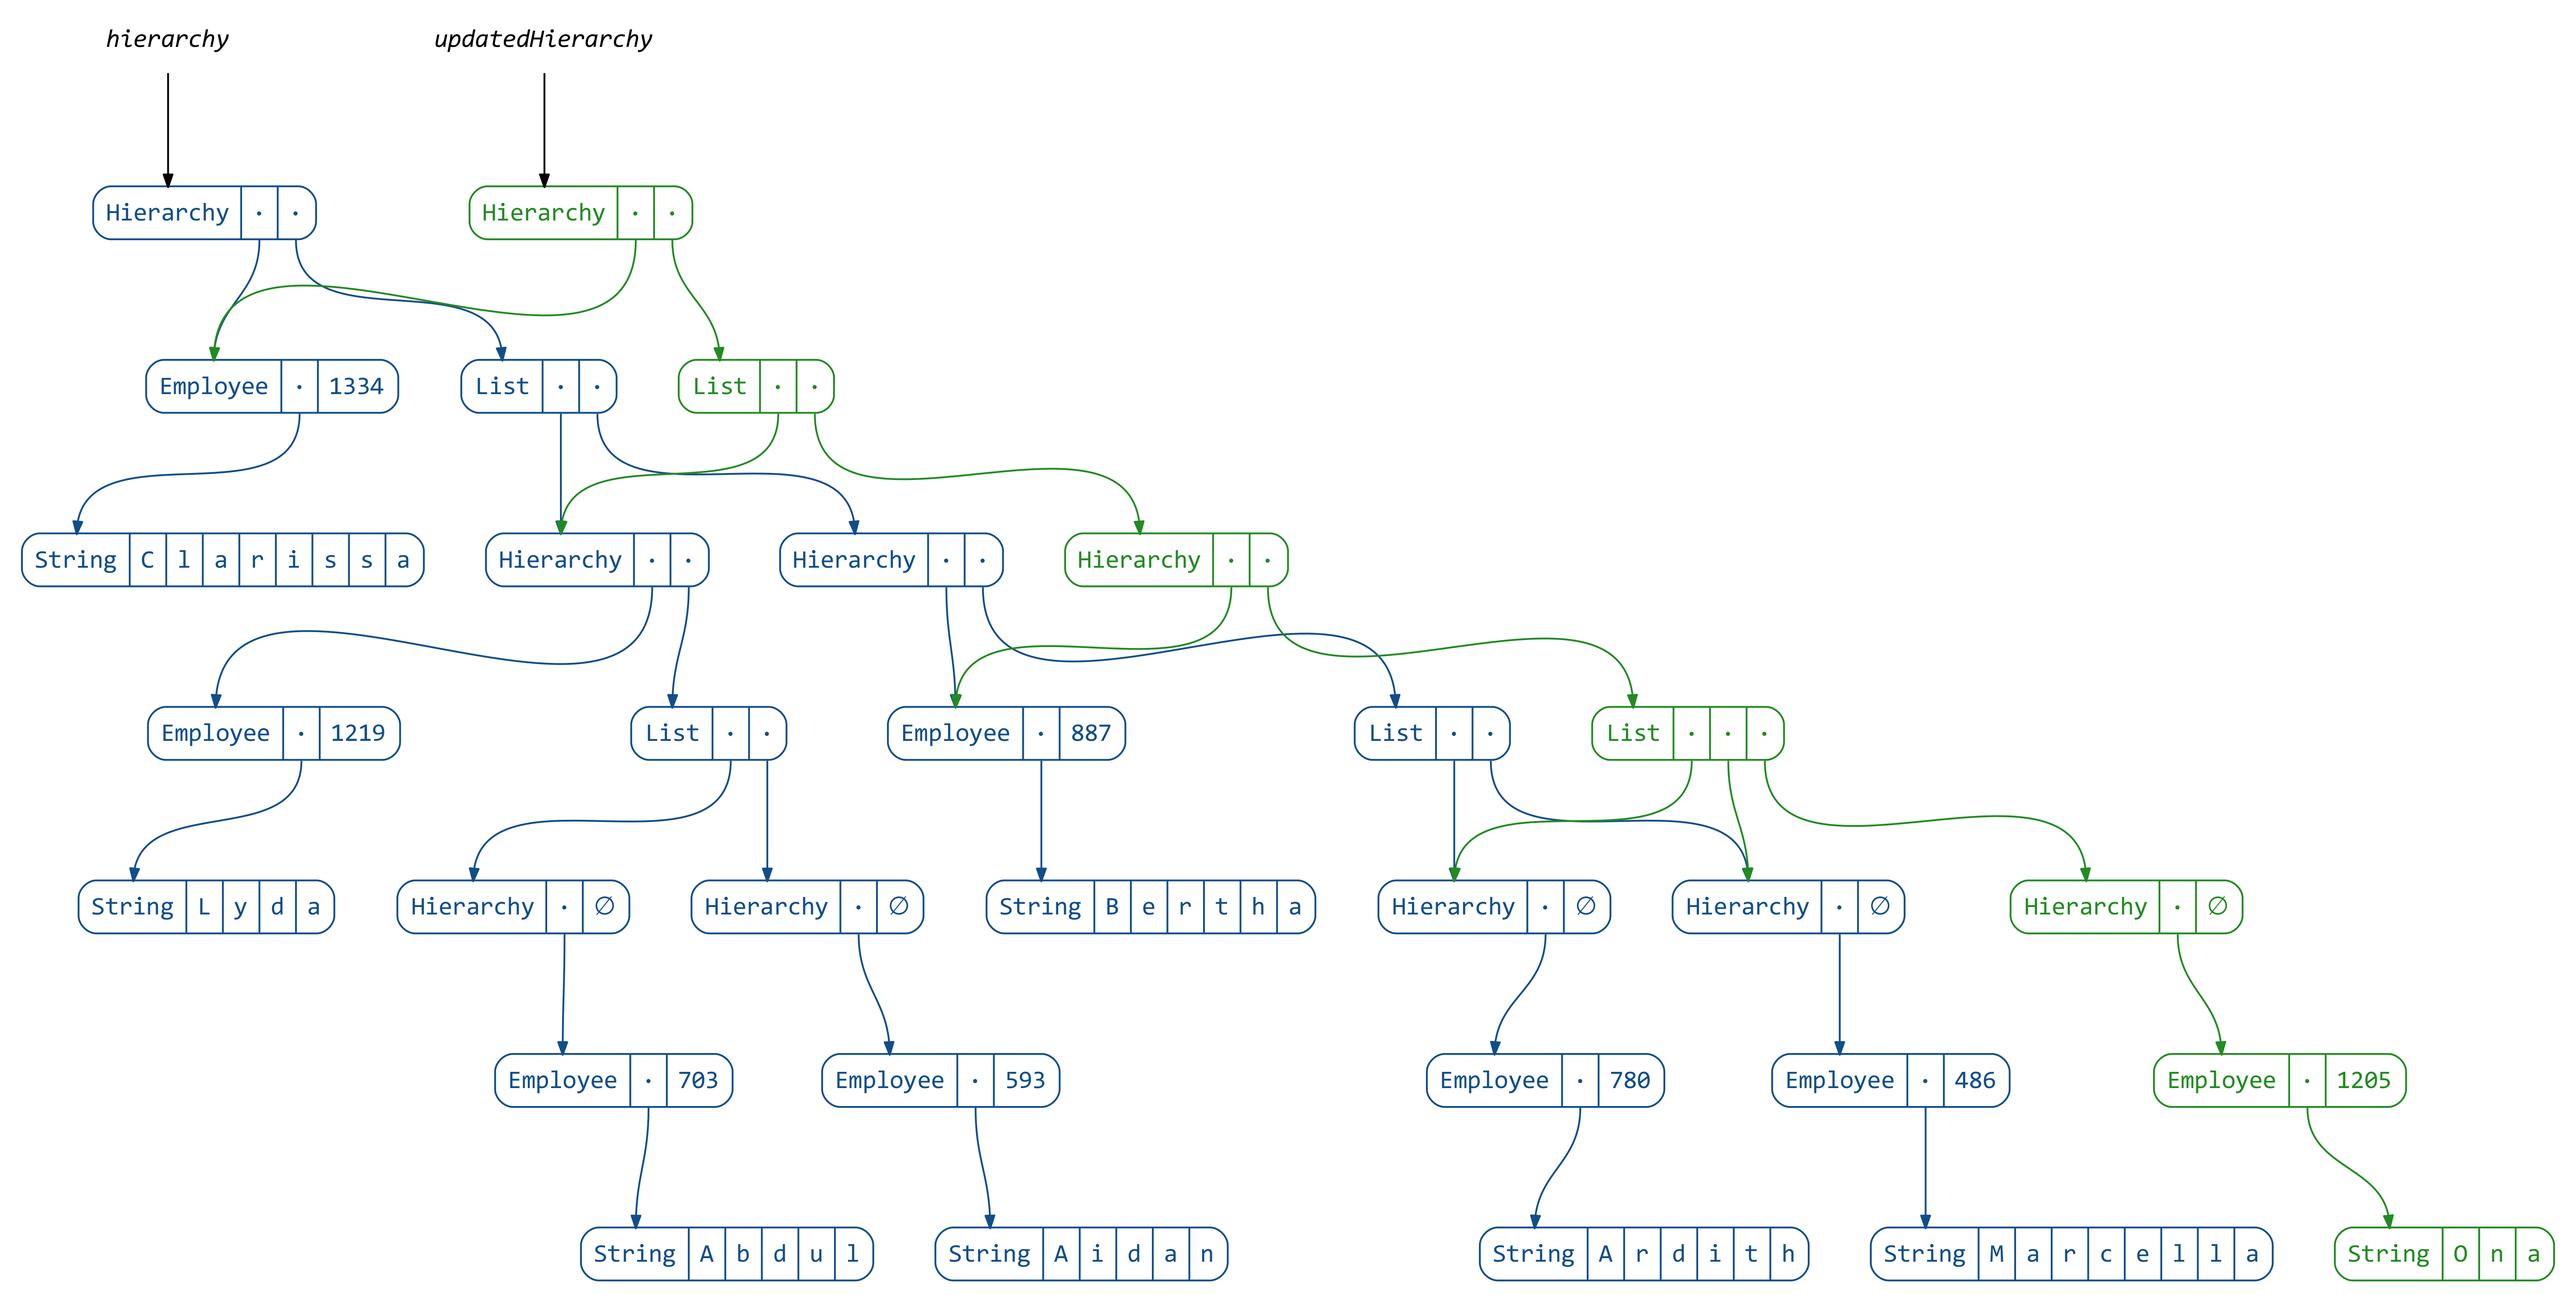
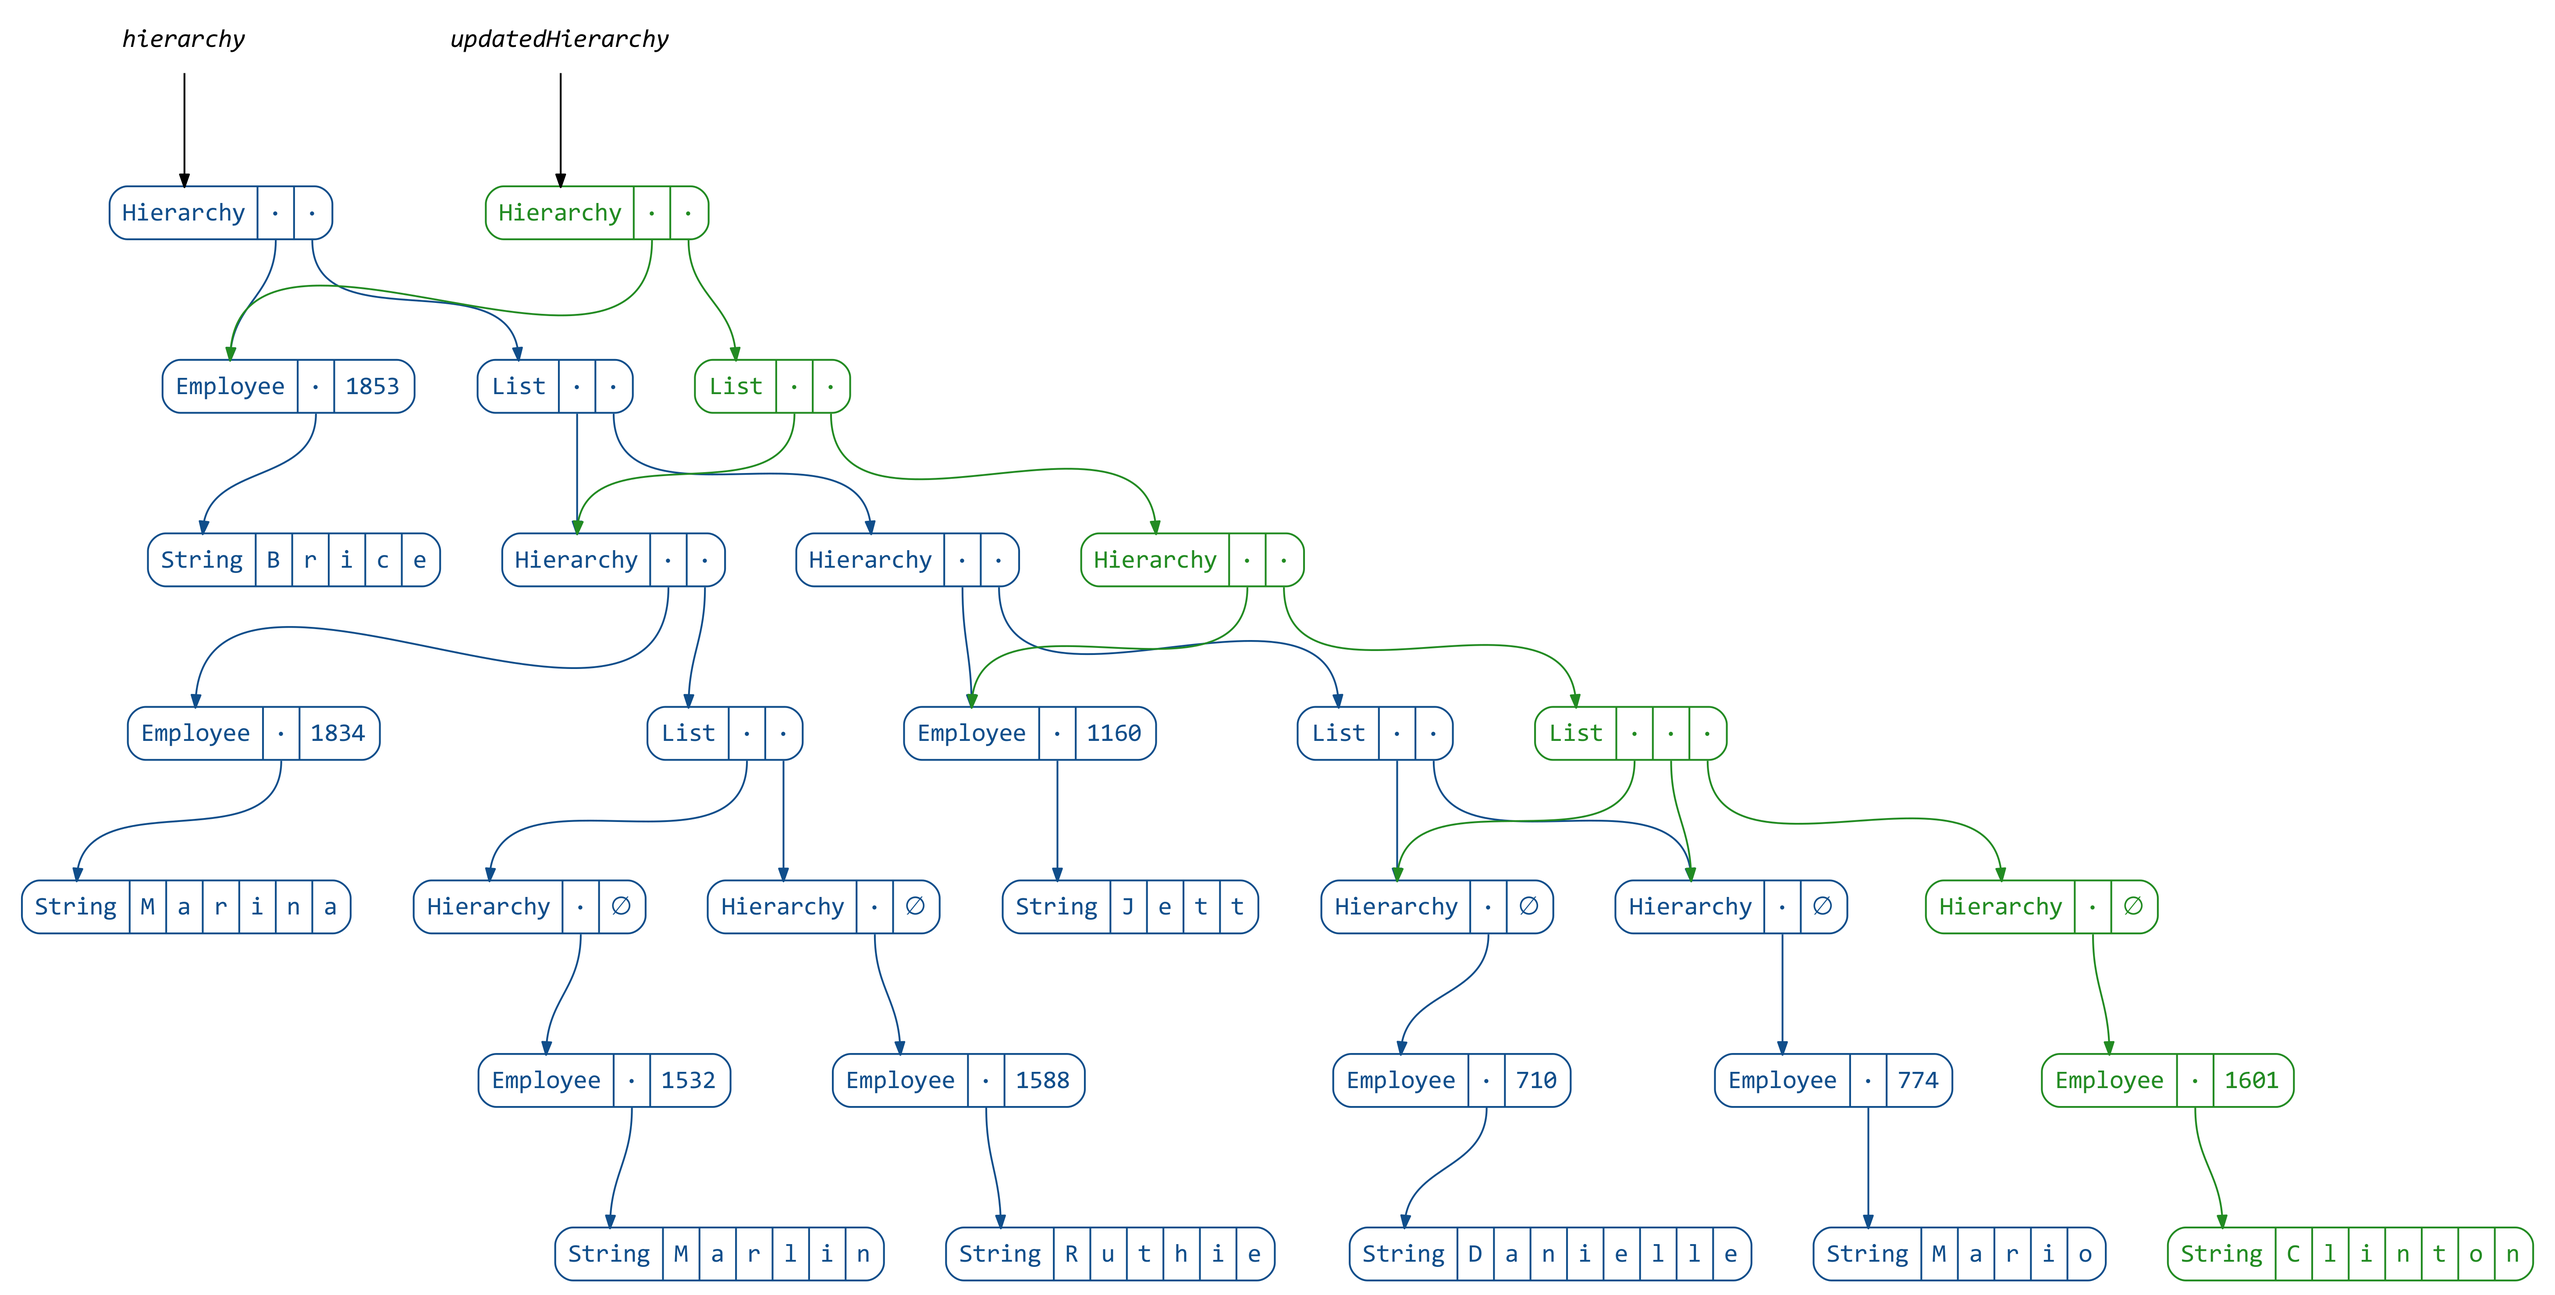
Specify targets explicitly when visualizing lens to avoid confusion

diff --git a/README.md b/README.md
@@ -59,10 +59,10 @@ case class Employee(
 
 ```scala
 scala> val employee = employees.sample.get
-employee: unzimm.Data.Employee = Employee(Janice,1180)
+employee: unzimm.Data.Employee = Employee(Rocky,1957)
 
 scala> val raisedEmployee = employee.copy(salary = employee.salary + 10)
-raisedEmployee: unzimm.Data.Employee = Employee(Janice,1190)
+raisedEmployee: unzimm.Data.Employee = Employee(Rocky,1967)
 ```
 
 However once composition comes into play, the resulting nested immutable data structures
@@ -83,14 +83,14 @@ case class Startup(
 
 ```scala
 scala> val startup = startups.sample.get
-startup: unzimm.Data.Startup = Startup(Abbott Group,Employee(Sheila,3851),List(Employee(Guadalupe,1452), Employee(Nelson,1661), Employee(Marianna,1711), Employee(Rogelio,1554)))
+startup: unzimm.Data.Startup = Startup(Hoppe-Prohaska,Employee(Brooke,4381),List(Employee(Teagan,1234), Employee(Ursula,1696), Employee(Dorothy,1671), Employee(Marc,1331)))
 
 scala> val raisedCeo = startup.copy(
      |   ceo = startup.ceo.copy(
      |     salary = startup.ceo.salary + 10
      |   )
      | )
-raisedCeo: unzimm.Data.Startup = Startup(Abbott Group,Employee(Sheila,3861),List(Employee(Guadalupe,1452), Employee(Nelson,1661), Employee(Marianna,1711), Employee(Rogelio,1554)))
+raisedCeo: unzimm.Data.Startup = Startup(Hoppe-Prohaska,Employee(Brooke,4391),List(Employee(Teagan,1234), Employee(Ursula,1696), Employee(Dorothy,1671), Employee(Marc,1331)))
 ```
 
 ```scala
@@ -120,17 +120,17 @@ import monocle.macros.GenLens
 
 scala> val salaryLens = GenLens[Employee](_.salary)
 warning: there was one feature warning; re-run with -feature for details
-salaryLens: monocle.Lens[unzimm.Data.Employee,Long] = $anon$1@1ecd59ae
+salaryLens: monocle.Lens[unzimm.Data.Employee,Long] = $anon$1@21e8d579
 
 scala> salaryLens.get(startup.ceo)
-res2: Long = 3851
+res2: Long = 4381
 
 scala> salaryLens.modify(s => s + 10)(startup.ceo)
-res3: unzimm.Data.Employee = Employee(Sheila,3861)
+res3: unzimm.Data.Employee = Employee(Brooke,4391)
 ```
 
 ```scala
-Diagram(path.resolve("salaryLens.png")).show(salaryLens)
+Diagram(path.resolve("salaryLens.png")).show(salaryLens → startup.ceo)
 ```
 
 <p align="center"><img src="images/lens/salaryLens.png" width="40%" /></p>
@@ -140,14 +140,14 @@ We can also define a lens that focuses on the startup’s CEO:
 ```scala
 scala> val ceoLens = GenLens[Startup](_.ceo)
 warning: there was one feature warning; re-run with -feature for details
-ceoLens: monocle.Lens[unzimm.Data.Startup,unzimm.Data.Employee] = $anon$1@269bd723
+ceoLens: monocle.Lens[unzimm.Data.Startup,unzimm.Data.Employee] = $anon$1@2790256
 
 scala> ceoLens.get(startup)
-res5: unzimm.Data.Employee = Employee(Sheila,3851)
+res5: unzimm.Data.Employee = Employee(Brooke,4381)
 ```
 
 ```scala
-Diagram(path.resolve("ceoLens.png")).show(ceoLens)
+Diagram(path.resolve("ceoLens.png")).show(ceoLens → startup)
 ```
 
 <p align="center"><img src="images/lens/ceoLens.png" width="100%" /></p>
@@ -156,17 +156,17 @@ It’s not apparent yet how this would help, but the trick is that lenses can be
 
 ```scala
 scala> val ceoSalaryLens = ceoLens composeLens salaryLens
-ceoSalaryLens: monocle.PLens[unzimm.Data.Startup,unzimm.Data.Startup,Long,Long] = monocle.PLens$$anon$1@1966b992
+ceoSalaryLens: monocle.PLens[unzimm.Data.Startup,unzimm.Data.Startup,Long,Long] = monocle.PLens$$anon$1@8c708f1
 
 scala> ceoSalaryLens.get(startup)
-res7: Long = 3851
+res7: Long = 4381
 
 scala> ceoSalaryLens.modify(s => s + 10)(startup)
-res8: unzimm.Data.Startup = Startup(Abbott Group,Employee(Sheila,3861),List(Employee(Guadalupe,1452), Employee(Nelson,1661), Employee(Marianna,1711), Employee(Rogelio,1554)))
+res8: unzimm.Data.Startup = Startup(Hoppe-Prohaska,Employee(Brooke,4391),List(Employee(Teagan,1234), Employee(Ursula,1696), Employee(Dorothy,1671), Employee(Marc,1331)))
 ```
 
 ```scala
-Diagram(path.resolve("ceoSalaryLens.png")).show(ceoSalaryLens)
+Diagram(path.resolve("ceoSalaryLens.png")).show(ceoSalaryLens → startup)
 ```
 
 <p align="center"><img src="images/lens/ceoSalaryLens.png" width="100%" /></p>
@@ -185,17 +185,17 @@ We can use it to give our CEO a funny name:
 ```scala
 scala> val employeeNameLens = GenLens[Employee](_.name)
 warning: there was one feature warning; re-run with -feature for details
-employeeNameLens: monocle.Lens[unzimm.Data.Employee,String] = $anon$1@3fa8719
+employeeNameLens: monocle.Lens[unzimm.Data.Employee,String] = $anon$1@7c0c3aea
 
 scala> val ceoVowelLens = ceoLens composeLens employeeNameLens composeLens vowelLens
-ceoVowelLens: monocle.PLens[unzimm.Data.Startup,unzimm.Data.Startup,Char,Char] = monocle.PLens$$anon$1@6c1cbd62
+ceoVowelLens: monocle.PLens[unzimm.Data.Startup,unzimm.Data.Startup,Char,Char] = monocle.PLens$$anon$1@2a781ab9
 
 scala> ceoVowelLens.modify(v => v.toUpper)(startup)
-res11: unzimm.Data.Startup = Startup(Abbott Group,Employee(ShEIlA,3851),List(Employee(Guadalupe,1452), Employee(Nelson,1661), Employee(Marianna,1711), Employee(Rogelio,1554)))
+res11: unzimm.Data.Startup = Startup(Hoppe-Prohaska,Employee(BrOOkE,4381),List(Employee(Teagan,1234), Employee(Ursula,1696), Employee(Dorothy,1671), Employee(Marc,1331)))
 ```
 
 ```scala
-Diagram(path.resolve("ceoVowelLens.png")).show(ceoVowelLens)
+Diagram(path.resolve("ceoVowelLens.png")).show(ceoVowelLens → startup)
 ```
 
 <p align="center"><img src="images/lens/ceoVowelLens.png" width="100%" /></p>
@@ -211,7 +211,7 @@ scala> import com.softwaremill.quicklens._
 import com.softwaremill.quicklens._
 
 scala> val raisedCeo = startup.modify(_.ceo.salary).using(s => s + 10)
-raisedCeo: unzimm.Data.Startup = Startup(Abbott Group,Employee(Sheila,3861),List(Employee(Guadalupe,1452), Employee(Nelson,1661), Employee(Marianna,1711), Employee(Rogelio,1554)))
+raisedCeo: unzimm.Data.Startup = Startup(Hoppe-Prohaska,Employee(Brooke,4391),List(Employee(Teagan,1234), Employee(Ursula,1696), Employee(Dorothy,1671), Employee(Marc,1331)))
 ```
 
 You might think this is approaching the syntax for updating mutable data,
@@ -220,7 +220,7 @@ but actually we have already surpassed it, since lens are much more flexible:
 
 ```scala
 scala> val raisedEveryone = startup.modifyAll(_.ceo.salary, _.team.each.salary).using(s => s + 10)
-raisedEveryone: unzimm.Data.Startup = Startup(Abbott Group,Employee(Sheila,3861),List(Employee(Guadalupe,1462), Employee(Nelson,1671), Employee(Marianna,1721), Employee(Rogelio,1564)))
+raisedEveryone: unzimm.Data.Startup = Startup(Hoppe-Prohaska,Employee(Brooke,4391),List(Employee(Teagan,1244), Employee(Ursula,1706), Employee(Dorothy,1681), Employee(Marc,1341)))
 ```
 
 

diff --git a/src/main/tut/README.md b/src/main/tut/README.md
@@ -118,7 +118,7 @@ salaryLens.modify(s => s + 10)(startup.ceo)
 ```
 
 ```tut:silent
-Diagram(path.resolve("salaryLens.png")).show(salaryLens)
+Diagram(path.resolve("salaryLens.png")).show(salaryLens → startup.ceo)
 ```
 
 <p align="center"><img src="images/lens/salaryLens.png" width="40%" /></p>
@@ -132,7 +132,7 @@ ceoLens.get(startup)
 ```
 
 ```tut:silent
-Diagram(path.resolve("ceoLens.png")).show(ceoLens)
+Diagram(path.resolve("ceoLens.png")).show(ceoLens → startup)
 ```
 
 <p align="center"><img src="images/lens/ceoLens.png" width="100%" /></p>
@@ -147,7 +147,7 @@ ceoSalaryLens.modify(s => s + 10)(startup)
 ```
 
 ```tut:silent
-Diagram(path.resolve("ceoSalaryLens.png")).show(ceoSalaryLens)
+Diagram(path.resolve("ceoSalaryLens.png")).show(ceoSalaryLens → startup)
 ```
 
 <p align="center"><img src="images/lens/ceoSalaryLens.png" width="100%" /></p>
@@ -171,7 +171,7 @@ ceoVowelLens.modify(v => v.toUpper)(startup)
 ```
 
 ```tut:silent
-Diagram(path.resolve("ceoVowelLens.png")).show(ceoVowelLens)
+Diagram(path.resolve("ceoVowelLens.png")).show(ceoVowelLens → startup)
 ```
 
 <p align="center"><img src="images/lens/ceoVowelLens.png" width="100%" /></p>
